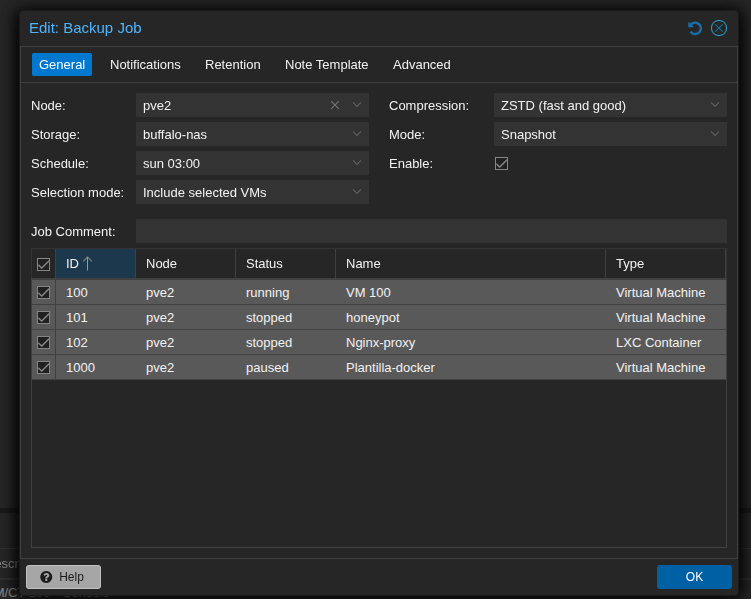
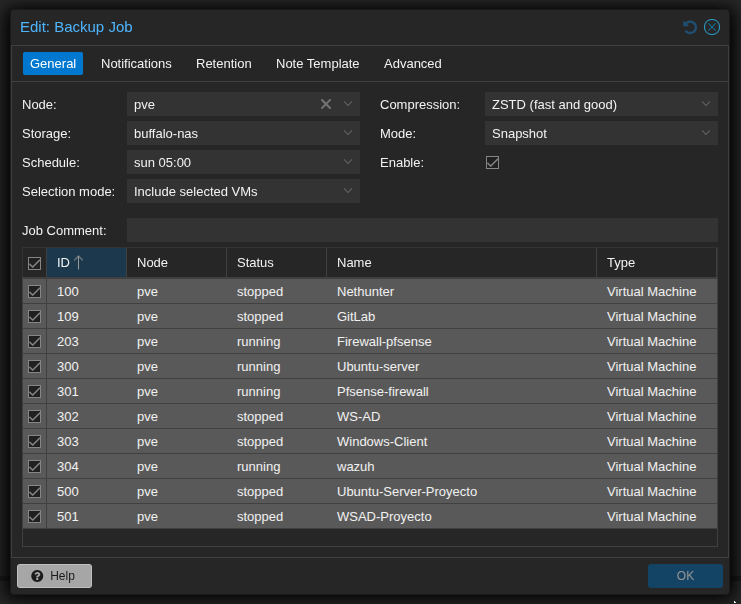
Edicion de capturas + documentacion NAS

diff --git a/Proyecto_Jairo_Mosteiro_Campos .md b/Proyecto_Jairo_Mosteiro_Campos .md
@@ -96,8 +96,17 @@
       - [Regla 2: Permitir SSH al servidor Ubuntu](#regla-2-permitir-ssh-al-servidor-ubuntu)
       - [Regla 3: Denegación por defecto](#regla-3-denegación-por-defecto)
     - [Resultado final de las reglas](#resultado-final-de-las-reglas)
-  - [Web – Página corporativa con Web4Pro](#web--página-corporativa-con-web4pro)
+  - [Redundancia y Copias de Seguridad – NAS Buffalo + Proxmox](#redundancia-y-copias-de-seguridad--nas-buffalo--proxmox)
     - [Descripción](#descripción-5)
+    - [Hardware: NAS Buffalo TeraStation TS3210D](#hardware-nas-buffalo-terastation-ts3210d)
+    - [Configuración del RAID](#configuración-del-raid)
+    - [Compartición de archivos y protocolo NFS](#compartición-de-archivos-y-protocolo-nfs)
+    - [Configuración de red del NAS](#configuración-de-red-del-nas)
+    - [Integración con Proxmox: tarea de backup en nodo `pve`](#integración-con-proxmox-tarea-de-backup-en-nodo-pve)
+    - [Verificación: discos incluidos en los backups](#verificación-discos-incluidos-en-los-backups)
+    - [Resumen de la política de copias de seguridad](#resumen-de-la-política-de-copias-de-seguridad)
+  - [Web – Página corporativa con Web4Pro](#web--página-corporativa-con-web4pro)
+    - [Descripción](#descripción-6)
     - [Layout de la página](#layout-de-la-página)
   - [**Conclusion**](#conclusion)
   - [**Glosario**](#glosario)
@@ -824,11 +833,102 @@ Con las tres reglas configuradas, el firewall queda con la siguiente política d
 
 ---
 
+## Redundancia y Copias de Seguridad – NAS Buffalo + Proxmox
+
+### Descripción
+
+Una infraestructura de servidor para una pequeña o mediana empresa no está completa sin una política de **copias de seguridad** que garantice la **continuidad del negocio** ante un fallo de hardware, un error humano o cualquier incidente imprevisto. Para dar respuesta a esta necesidad, se ha integrado en el proyecto un NAS Buffalo TeraStation TS3210D que actúa como destino centralizado de todos los backups de las máquinas virtuales alojadas en el nodo Proxmox (`pve`).
+
+Al igual que el resto del hardware del proyecto, el NAS ha sido adquirido de **segunda mano con los discos incluidos**, lo que encaja directamente con la filosofía de reutilización y reducción de costes que caracteriza a esta infraestructura. A pesar de ser hardware de segunda mano, el dispositivo se encuentra en perfecto estado de funcionamiento y ofrece todas las capacidades necesarias para una política de backups profesional.
+
+La tarea de backup está programada para ejecutarse automáticamente cada domingo de madrugada, sin necesidad de intervención manual, garantizando que todas las máquinas virtuales del proyecto quedan respaldadas de forma periódica y consistente.
+
+---
+
+### Hardware: NAS Buffalo TeraStation TS3210D
+
+El dispositivo utilizado como almacenamiento centralizado de backups es un **Buffalo TeraStation TS3210D**, un NAS de nivel profesional orientado a pequeñas empresas, adquirido de **segunda mano con sus discos originales incluidos**. Esta decisión es coherente con la filosofía general del proyecto: aprovechar hardware en buen estado a un coste muy inferior al de un dispositivo nuevo, sin sacrificar funcionalidad ni fiabilidad. Se conecta a la red local a través de su interfaz **LAN 2** con la IP estática `192.168.1.195`, accesible desde el nodo Proxmox.
+
+<img src="img/NAS/cap1.png">
+
+> En esta captura se puede ver el **panel de control principal del NAS Buffalo TeraStation TS3210D**. Se muestra el estado general del sistema sin eventos activos (indicado en verde), la información del sistema (modelo TS3210D7E4, firmware 5.00-0.07), el estado del almacenamiento con la **Matriz 1 en RAID 1** con 203,4 GB utilizados de 1830,3 GB disponibles, y los datos de red con la IP `192.168.1.195` a 1000 Mbps.
+>
+
+
+---
+
+### Configuración del RAID
+
+El NAS tiene configurada una **Matriz RAID 1** compuesta por dos unidades de disco. El RAID 1 (también llamado mirroring o espejo) duplica los datos en tiempo real en ambos discos: si uno falla, el otro contiene una copia íntegra y el sistema puede seguir funcionando sin pérdida de datos. El sistema de archivos utilizado es **XFS**, adecuado para grandes volúmenes de datos y cargas de escritura continua como las que generan los backups de máquinas virtuales.
+
+<img src="img/NAS/cap3.png">
+
+
+---
+
+### Compartición de archivos y protocolo NFS
+
+Para que Proxmox pueda montar el almacenamiento del NAS como un **Storage externo**, el NAS expone sus carpetas compartidas mediante **NFS (Network File System)**, el protocolo estándar en entornos Linux y el que recomienda Proxmox para almacenamiento remoto de backups.
+
+<img src="img/NAS/cap2.png">
+
+
+---
+
+### Configuración de red del NAS
+
+En esta captura se muestra la configuración de **red del NAS**, donde se puede ver que la dirección IP asignada es `192.168.1.195` a través del puerto **LAN 2**. Esta IP estática es la que se configura como destino en las tareas de backup de Proxmox. También se observan otras opciones disponibles como servidor proxy, grupo de trabajo y SNMP.
+
+<img src="img/NAS/cap4.png">
+
+
+
+
+---
+
+### Integración con Proxmox: tarea de backup en nodo `pve`
+
+En el nodo principal **`pve`** se ha configurado una tarea de backup automática que respalda todas las máquinas virtuales al NAS (`buffalo-nas`) cada domingo a las **05:00h**. Se utiliza compresión **ZSTD** (rápida y eficiente) y modo **Snapshot**, que permite hacer el backup de una VM aunque esté en ejecución sin necesidad de apagarla.
+
+<img src="img/NAS/cap5.png">
+
+
+---
+
+### Verificación: discos incluidos en los backups
+
+Para confirmar que todos los discos de cada VM están cubiertos por la política de backup, Proxmox permite visualizar el detalle de cada tarea mostrando los discos incluidos y su estado.
+
+<img src="img/NAS/cap6.png">
+
+
+---
+
+### Resumen de la política de copias de seguridad
+
+| Parámetro | Valor |
+|---|---|
+| Dispositivo | Buffalo TeraStation TS3210D (segunda mano) |
+| Destino | buffalo-nas (192.168.1.195) |
+| Protocolo | NFS |
+| Horario | Domingos a las 05:00h |
+| Compresión | ZSTD |
+| Modo | Snapshot (sin parar las VMs) |
+| VMs cubiertas | 10 VMs del nodo `pve` |
+| RAID del NAS | RAID 1 (espejo, 2 discos) |
+| Capacidad total | 1830 GB (89% disponible) |
+
+Esta política garantiza que, ante cualquier fallo en el servidor principal, todas las máquinas virtuales pueden restaurarse desde el NAS en un tiempo mínimo, asegurando la **continuidad del servicio** para la empresa.
+
+<div style="page-break-after: always;"></div>
+
+---
+
 ## Web – Página corporativa con Web4Pro
 
 ### Descripción
 
-"M"e gustaria que destacar que esta pagina web la he hecho para la empresa en la que estaba haciendo mis practicas laborales y esta 100% operativa"
+"Me gustaria que destacar que esta pagina web la he hecho para la empresa en la que estaba haciendo mis practicas laborales y esta 100% operativa"
 
 Como parte del proyecto, se desarrolla una página web corporativa utilizando el CMS **Web4Pro**. Este gestor de contenidos permite crear y administrar páginas web de forma sencilla y profesional, sin necesidad de programar desde cero, adaptándose perfectamente a las necesidades de una pequeña o mediana empresa.
 
@@ -840,7 +940,6 @@ La página web de la empresa es de acceso público y puede visitarse buscando **
 
 <img src="img/WEB/layout.png">
 
-> Vista general del layout de la página web corporativa, donde se puede apreciar la estructura y disposición de los elementos que componen la web.
 
 <div style="page-break-after: always;"></div>
 
@@ -859,6 +958,8 @@ Desde el montaje físico del servidor con componentes reciclados hasta la config
 - Esta solución de automatización demuestra cómo Ansible mejora significativamente la eficiencia operacional, un aspecto crítico en entornos empresariales y de ciberseguridad. La capacidad de provisionar infraestructura de forma rápida, consistente y reproducible es fundamental en diferentes ambitos desde la ciberseguridad hasta infraestructura en una red 
 
 - La implementacion de un **firewall** con pfsense fue sin duda la parte que mas me apasiono de este proyecto, ya que he aprendido a gestionar reglas de un firewall que se podria usar de manera profesional
+
+- La integración de un **NAS Buffalo de segunda mano con RAID 1** como destino centralizado de backups automáticos en Proxmox me ha permitido comprender la importancia de la continuidad del negocio y cómo se implementa una política de copias de seguridad real en un entorno empresarial, además de reforzar la filosofía de reutilización de hardware que caracteriza a todo el proyecto.
 
 - El desarrollo de la **página web** con un CMS en mi estadia en la empresa me ayudo a ganar experiencia en el ambito de el desarroyo web.
 
